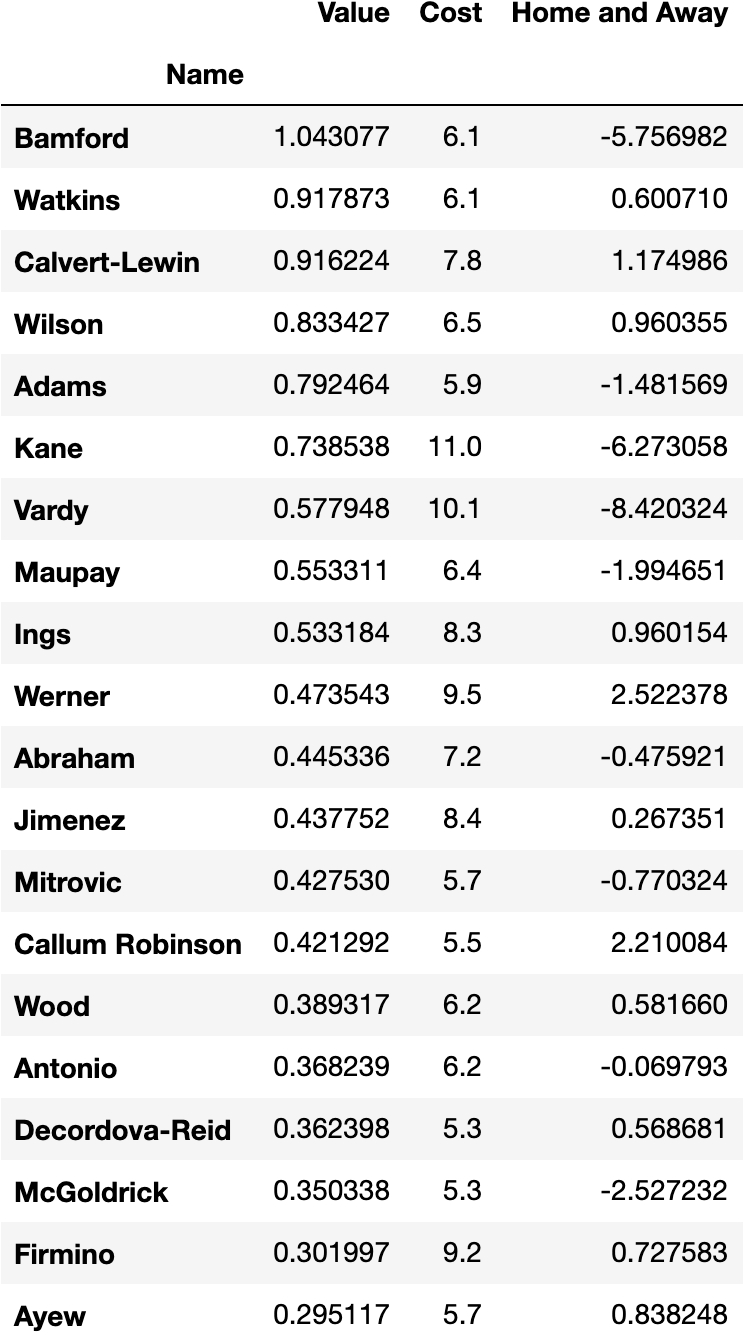
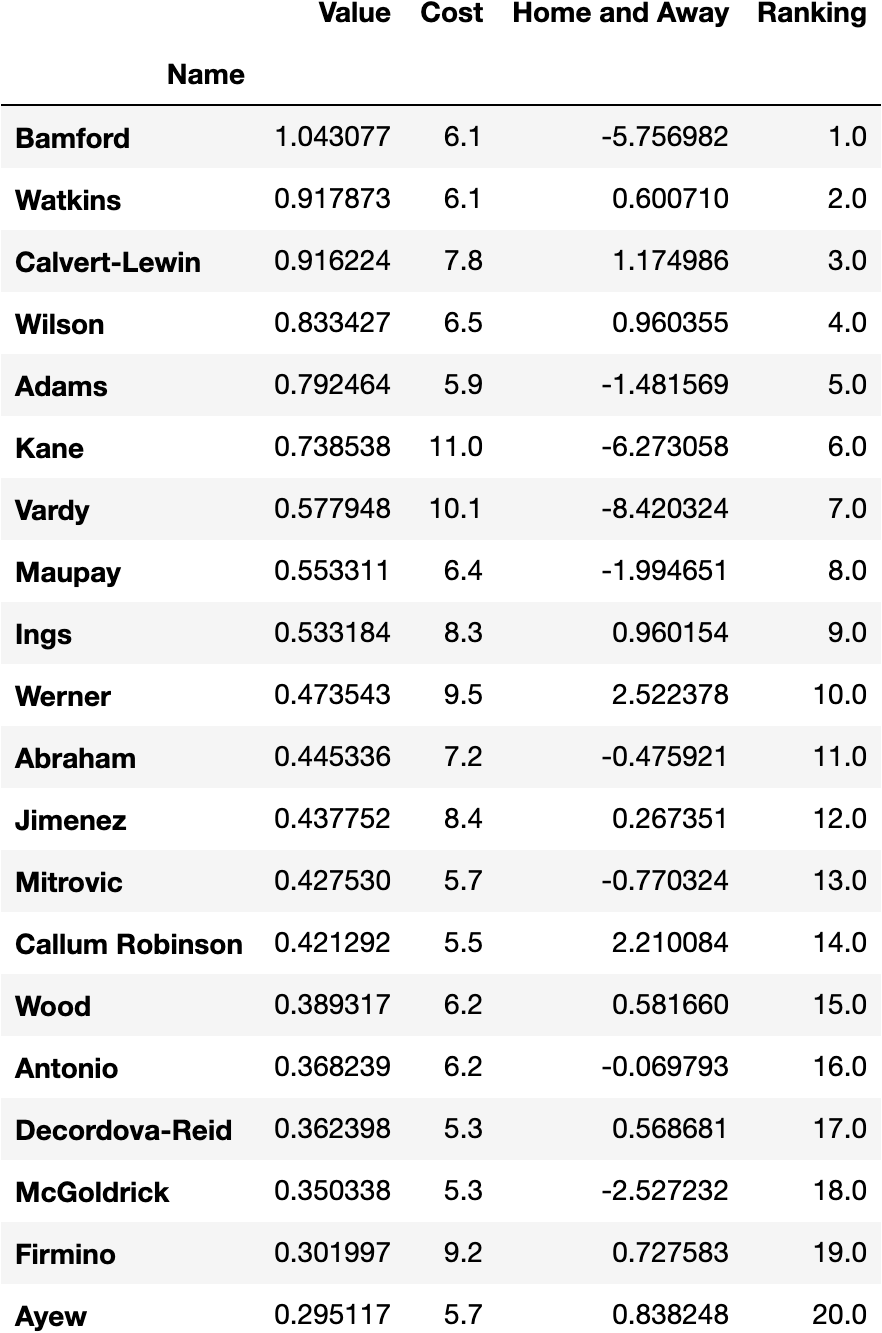
re-added the code to add the last week ranking

diff --git a/Scripts/Forwards.py b/Scripts/Forwards.py
@@ -9,8 +9,8 @@ def forwards():
 
     forwardsDf = pd.read_csv('Resources/Forwards.csv')
     forwardsDf
-    #lastWeekRankDf = pd.read_csv('Rankings/forwardsRank.csv')[['Name','Ranking']]
-    #lastWeekRankDf = lastWeekRankDf.set_index('Name')
+    lastWeekRankDf = pd.read_csv('Rankings/forwardsRank.csv')[['Name','Ranking']]
+    lastWeekRankDf = lastWeekRankDf.set_index('Name')
 
 
     forwardsDf, costDf, forwardForm = cleanDataFrame(forwardsDf)
@@ -45,7 +45,7 @@ def forwards():
     prodForwardDf = prodForwardDf[['Value', 'Cost', 'Home and Away']]
 
     prodForwardDf['Ranking'] = prodForwardDf['Value'].rank(ascending=False)
-    #prodForwardDf['Last Week Ranking'] = lastWeekRankDf
+    prodForwardDf['Last Week Ranking'] = lastWeekRankDf
 
     prodForwardDf.to_csv('Rankings/forwardsRank.csv')
 
